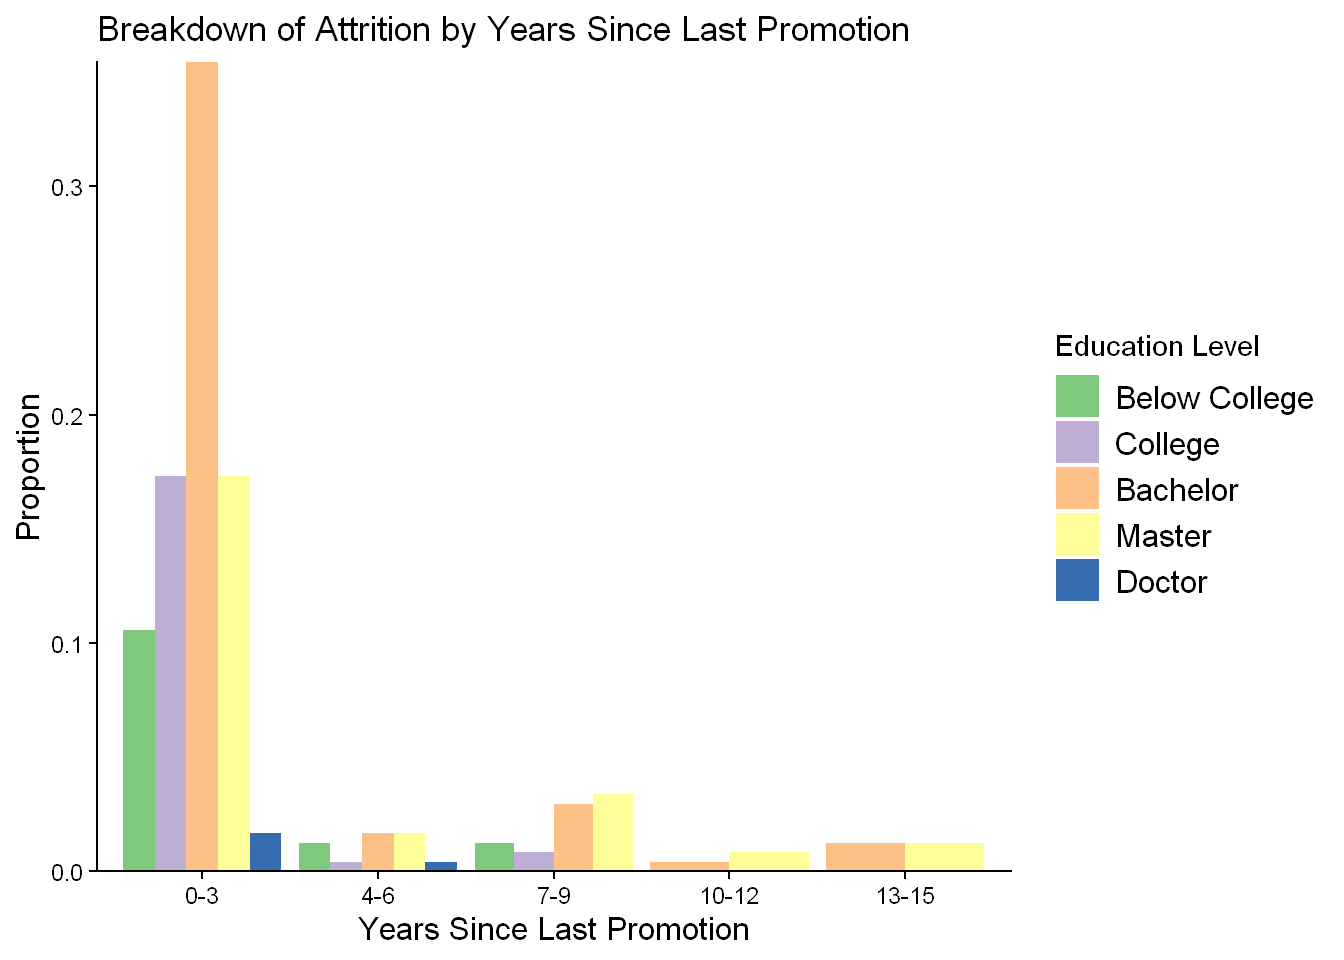
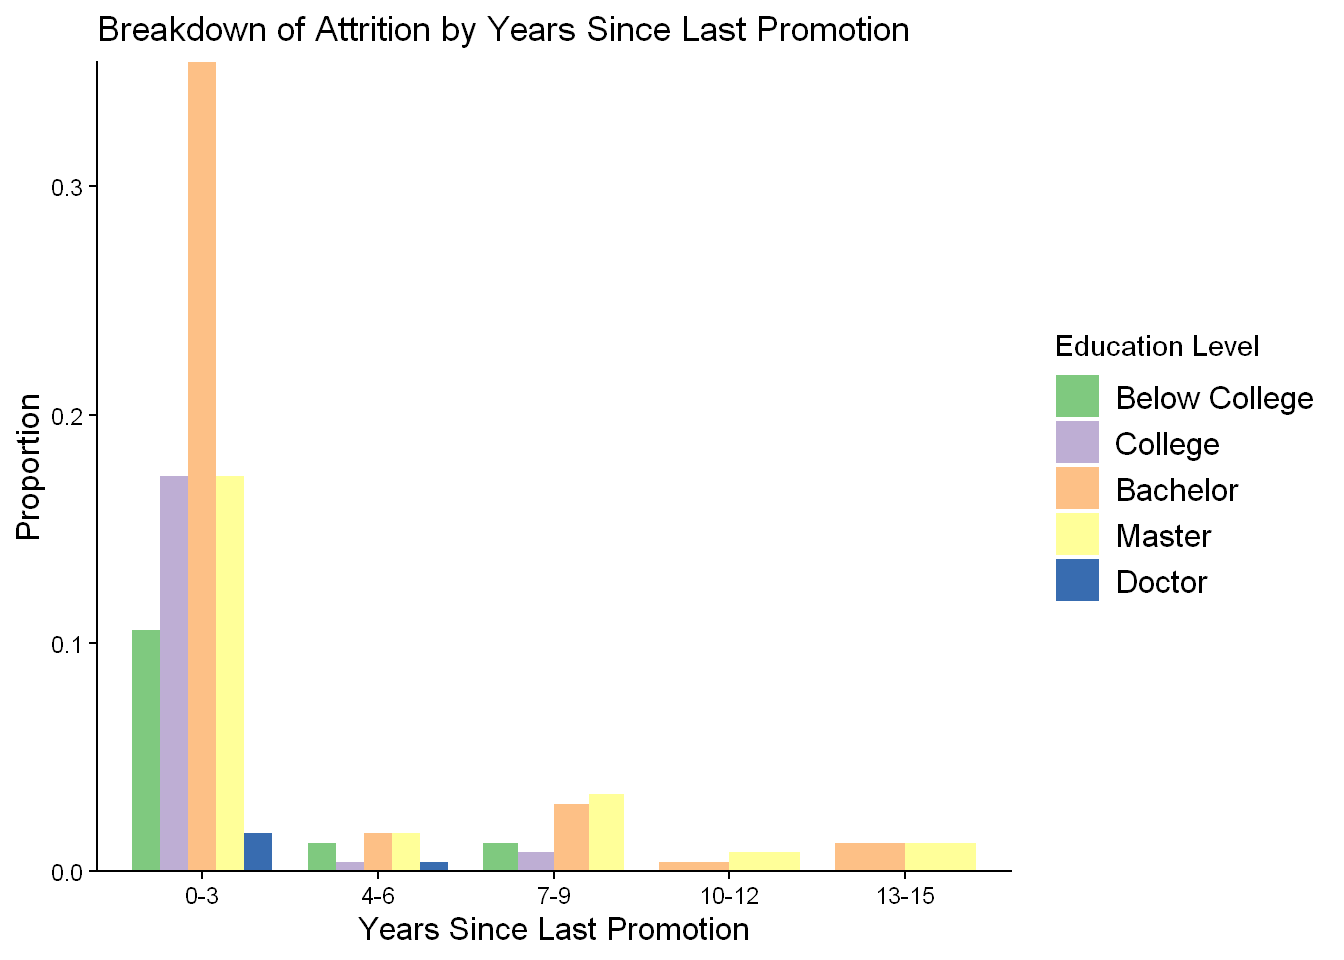
Added heatmap

diff --git a/Employee Attrition Exploration & Analyses.html b/Employee Attrition Exploration & Analyses.html
@@ -93,6 +93,7 @@ pre > code.sourceCode > span > a:first-child::before { text-decoration: underlin
   <li><a href="#cleaning" id="toc-cleaning" class="nav-link" data-scroll-target="#cleaning">Cleaning</a></li>
   <li><a href="#analyses" id="toc-analyses" class="nav-link" data-scroll-target="#analyses">Analyses</a>
   <ul class="collapse">
+  <li><a href="#engagement-insights" id="toc-engagement-insights" class="nav-link" data-scroll-target="#engagement-insights">Engagement Insights</a></li>
   <li><a href="#rename-education-insights-rename" id="toc-rename-education-insights-rename" class="nav-link" data-scroll-target="#rename-education-insights-rename">(RENAME) Education Insights (RENAME)</a></li>
   </ul></li>
   </ul>
@@ -219,28 +220,65 @@ $ YearsWithCurrManager     &lt;dbl&gt; 5, 7, 0, 0, 2, 6, 0, 0, 8, 7, 3, 8, 3, 2,
 <section id="analyses" class="level1">
 <h1>Analyses</h1>
 <div class="cell">
-<div class="code-copy-outer-scaffold"><div class="sourceCode cell-code" id="cb6"><pre class="sourceCode r code-with-copy"><code class="sourceCode r"><span id="cb6-1"><a href="#cb6-1" aria-hidden="true" tabindex="-1"></a><span class="co"># Created a new table highlighting employees who attrited, selecting some specific variables</span></span>
+<div class="code-copy-outer-scaffold"><div class="sourceCode cell-code" id="cb6"><pre class="sourceCode r code-with-copy"><code class="sourceCode r"><span id="cb6-1"><a href="#cb6-1" aria-hidden="true" tabindex="-1"></a><span class="co"># Created a new table highlighting employees who attritted, selecting some specific variables</span></span>
 <span id="cb6-2"><a href="#cb6-2" aria-hidden="true" tabindex="-1"></a>attrition_data <span class="ot">&lt;-</span> hr_data <span class="sc">%&gt;%</span> </span>
 <span id="cb6-3"><a href="#cb6-3" aria-hidden="true" tabindex="-1"></a>  <span class="fu">filter</span>(attrition <span class="sc">==</span> <span class="st">"Yes"</span>) <span class="sc">%&gt;%</span> </span>
 <span id="cb6-4"><a href="#cb6-4" aria-hidden="true" tabindex="-1"></a>  <span class="fu">select</span>(employee_number, distance_from_home, education, environment_satisfaction, </span>
 <span id="cb6-5"><a href="#cb6-5" aria-hidden="true" tabindex="-1"></a>         job_involvement, job_level, job_satisfaction, </span>
 <span id="cb6-6"><a href="#cb6-6" aria-hidden="true" tabindex="-1"></a>         num_companies_worked<span class="sc">:</span><span class="fu">last_col</span>())</span></code></pre></div><button title="Copy to Clipboard" class="code-copy-button"><i class="bi"></i></button></div>
 </div>
+<section id="engagement-insights" class="level2">
+<h2 class="anchored" data-anchor-id="engagement-insights">Engagement Insights</h2>
+<div class="cell">
+<div class="code-copy-outer-scaffold"><div class="sourceCode cell-code" id="cb7"><pre class="sourceCode r code-with-copy"><code class="sourceCode r"><span id="cb7-1"><a href="#cb7-1" aria-hidden="true" tabindex="-1"></a><span class="co"># Created a new table to display the attrition rates of each job involvement and satisfaction pair</span></span>
+<span id="cb7-2"><a href="#cb7-2" aria-hidden="true" tabindex="-1"></a>engagement_df <span class="ot">&lt;-</span> hr_data <span class="sc">%&gt;%</span> </span>
+<span id="cb7-3"><a href="#cb7-3" aria-hidden="true" tabindex="-1"></a>  <span class="fu">group_by</span>(job_involvement, job_satisfaction) <span class="sc">%&gt;%</span> </span>
+<span id="cb7-4"><a href="#cb7-4" aria-hidden="true" tabindex="-1"></a>  <span class="fu">summarize</span>(<span class="at">attrition_rate =</span> <span class="fu">round</span>((<span class="fu">mean</span>(attrition <span class="sc">==</span> <span class="st">"Yes"</span>)) <span class="sc">*</span> <span class="dv">100</span>, <span class="dv">2</span>))</span>
+<span id="cb7-5"><a href="#cb7-5" aria-hidden="true" tabindex="-1"></a></span>
+<span id="cb7-6"><a href="#cb7-6" aria-hidden="true" tabindex="-1"></a><span class="co"># Created theme for following plots</span></span>
+<span id="cb7-7"><a href="#cb7-7" aria-hidden="true" tabindex="-1"></a>graph_theme <span class="ot">&lt;-</span> <span class="fu">theme_classic</span>() <span class="sc">+</span></span>
+<span id="cb7-8"><a href="#cb7-8" aria-hidden="true" tabindex="-1"></a>  <span class="fu">theme</span>(</span>
+<span id="cb7-9"><a href="#cb7-9" aria-hidden="true" tabindex="-1"></a>        <span class="at">axis.title =</span> <span class="fu">element_text</span>(<span class="at">size =</span> <span class="dv">12</span>),</span>
+<span id="cb7-10"><a href="#cb7-10" aria-hidden="true" tabindex="-1"></a>        <span class="at">legend.text =</span> <span class="fu">element_text</span>(<span class="at">size =</span> <span class="dv">12</span>))</span>
+<span id="cb7-11"><a href="#cb7-11" aria-hidden="true" tabindex="-1"></a></span>
+<span id="cb7-12"><a href="#cb7-12" aria-hidden="true" tabindex="-1"></a><span class="co"># Created heatmap showcasing the relationship between the two variables</span></span>
+<span id="cb7-13"><a href="#cb7-13" aria-hidden="true" tabindex="-1"></a>engagement_heatmap <span class="ot">&lt;-</span> <span class="fu">ggplot</span>(engagement_df) <span class="sc">+</span> </span>
+<span id="cb7-14"><a href="#cb7-14" aria-hidden="true" tabindex="-1"></a>  <span class="fu">geom_tile</span>(<span class="fu">aes</span>(<span class="at">x =</span> job_involvement, </span>
+<span id="cb7-15"><a href="#cb7-15" aria-hidden="true" tabindex="-1"></a>                <span class="at">y =</span> job_satisfaction, </span>
+<span id="cb7-16"><a href="#cb7-16" aria-hidden="true" tabindex="-1"></a>                <span class="at">fill =</span> attrition_rate)) <span class="sc">+</span></span>
+<span id="cb7-17"><a href="#cb7-17" aria-hidden="true" tabindex="-1"></a>  <span class="fu">scale_fill_gradient</span>() <span class="sc">+</span></span>
+<span id="cb7-18"><a href="#cb7-18" aria-hidden="true" tabindex="-1"></a>  <span class="fu">labs</span>(<span class="at">x =</span> <span class="st">"Job Involvement"</span>, </span>
+<span id="cb7-19"><a href="#cb7-19" aria-hidden="true" tabindex="-1"></a>       <span class="at">y =</span> <span class="st">"Job Satisfaction"</span>,</span>
+<span id="cb7-20"><a href="#cb7-20" aria-hidden="true" tabindex="-1"></a>       <span class="at">title =</span> <span class="st">"Job Engagement Heatmap"</span>,</span>
+<span id="cb7-21"><a href="#cb7-21" aria-hidden="true" tabindex="-1"></a>       <span class="at">fill =</span> <span class="st">"Attrition Rate"</span>) <span class="sc">+</span></span>
+<span id="cb7-22"><a href="#cb7-22" aria-hidden="true" tabindex="-1"></a>  <span class="fu">theme_classic</span>() <span class="sc">+</span></span>
+<span id="cb7-23"><a href="#cb7-23" aria-hidden="true" tabindex="-1"></a>  graph_theme</span>
+<span id="cb7-24"><a href="#cb7-24" aria-hidden="true" tabindex="-1"></a></span>
+<span id="cb7-25"><a href="#cb7-25" aria-hidden="true" tabindex="-1"></a>engagement_heatmap</span></code></pre></div><button title="Copy to Clipboard" class="code-copy-button"><i class="bi"></i></button></div>
+<div class="cell-output-display">
+<div>
+<figure class="figure">
+<p><img src="Employee-Attrition-Exploration---Analyses_files/figure-html/Job%20Involvement%20and%20Satisfaction%20graph-1.png" class="img-fluid figure-img" width="672"></p>
+</figure>
+</div>
+</div>
+</div>
+</section>
 <section id="rename-education-insights-rename" class="level2">
 <h2 class="anchored" data-anchor-id="rename-education-insights-rename">(RENAME) Education Insights (RENAME)</h2>
 <div class="cell">
-<div class="code-copy-outer-scaffold"><div class="sourceCode cell-code" id="cb7"><pre class="sourceCode r code-with-copy"><code class="sourceCode r"><span id="cb7-1"><a href="#cb7-1" aria-hidden="true" tabindex="-1"></a><span class="co"># Created a new table to gain insight on employees based on their education level</span></span>
-<span id="cb7-2"><a href="#cb7-2" aria-hidden="true" tabindex="-1"></a>education_data <span class="ot">&lt;-</span> attrition_data <span class="sc">%&gt;%</span> </span>
-<span id="cb7-3"><a href="#cb7-3" aria-hidden="true" tabindex="-1"></a>  <span class="fu">select</span>(employee_number, education<span class="sc">:</span>job_satisfaction, percent_salary_hike, </span>
-<span id="cb7-4"><a href="#cb7-4" aria-hidden="true" tabindex="-1"></a>         total_working_years, years_at_company<span class="sc">:</span>years_since_last_promotion)</span>
-<span id="cb7-5"><a href="#cb7-5" aria-hidden="true" tabindex="-1"></a></span>
-<span id="cb7-6"><a href="#cb7-6" aria-hidden="true" tabindex="-1"></a><span class="co"># Finding which level of education has had the highest attrition rate</span></span>
-<span id="cb7-7"><a href="#cb7-7" aria-hidden="true" tabindex="-1"></a>ed_df <span class="ot">&lt;-</span> hr_data <span class="sc">%&gt;%</span> </span>
-<span id="cb7-8"><a href="#cb7-8" aria-hidden="true" tabindex="-1"></a><span class="fu">group_by</span>(education) <span class="sc">%&gt;%</span> </span>
-<span id="cb7-9"><a href="#cb7-9" aria-hidden="true" tabindex="-1"></a>  <span class="fu">summarize</span>(<span class="at">attrition_rate =</span> <span class="fu">round</span>((<span class="fu">mean</span>(attrition <span class="sc">==</span> <span class="st">"Yes"</span>)) <span class="sc">*</span> <span class="dv">100</span>, <span class="dv">2</span>))</span>
-<span id="cb7-10"><a href="#cb7-10" aria-hidden="true" tabindex="-1"></a></span>
-<span id="cb7-11"><a href="#cb7-11" aria-hidden="true" tabindex="-1"></a><span class="co"># Displaying the attrition rates of each education level</span></span>
-<span id="cb7-12"><a href="#cb7-12" aria-hidden="true" tabindex="-1"></a>knitr<span class="sc">::</span><span class="fu">kable</span>(ed_df)</span></code></pre></div><button title="Copy to Clipboard" class="code-copy-button"><i class="bi"></i></button></div>
+<div class="code-copy-outer-scaffold"><div class="sourceCode cell-code" id="cb8"><pre class="sourceCode r code-with-copy"><code class="sourceCode r"><span id="cb8-1"><a href="#cb8-1" aria-hidden="true" tabindex="-1"></a><span class="co"># Created a new table to gain insight on employees based on their education level</span></span>
+<span id="cb8-2"><a href="#cb8-2" aria-hidden="true" tabindex="-1"></a>education_data <span class="ot">&lt;-</span> attrition_data <span class="sc">%&gt;%</span> </span>
+<span id="cb8-3"><a href="#cb8-3" aria-hidden="true" tabindex="-1"></a>  <span class="fu">select</span>(employee_number, education<span class="sc">:</span>job_satisfaction, percent_salary_hike, </span>
+<span id="cb8-4"><a href="#cb8-4" aria-hidden="true" tabindex="-1"></a>         total_working_years, years_at_company<span class="sc">:</span>years_since_last_promotion)</span>
+<span id="cb8-5"><a href="#cb8-5" aria-hidden="true" tabindex="-1"></a></span>
+<span id="cb8-6"><a href="#cb8-6" aria-hidden="true" tabindex="-1"></a><span class="co"># Finding which level of education has had the highest attrition rate</span></span>
+<span id="cb8-7"><a href="#cb8-7" aria-hidden="true" tabindex="-1"></a>ed_df <span class="ot">&lt;-</span> hr_data <span class="sc">%&gt;%</span> </span>
+<span id="cb8-8"><a href="#cb8-8" aria-hidden="true" tabindex="-1"></a><span class="fu">group_by</span>(education) <span class="sc">%&gt;%</span> </span>
+<span id="cb8-9"><a href="#cb8-9" aria-hidden="true" tabindex="-1"></a>  <span class="fu">summarize</span>(<span class="at">attrition_rate =</span> <span class="fu">round</span>((<span class="fu">mean</span>(attrition <span class="sc">==</span> <span class="st">"Yes"</span>)) <span class="sc">*</span> <span class="dv">100</span>, <span class="dv">2</span>))</span>
+<span id="cb8-10"><a href="#cb8-10" aria-hidden="true" tabindex="-1"></a></span>
+<span id="cb8-11"><a href="#cb8-11" aria-hidden="true" tabindex="-1"></a><span class="co"># Displaying the attrition rates of each education level</span></span>
+<span id="cb8-12"><a href="#cb8-12" aria-hidden="true" tabindex="-1"></a>knitr<span class="sc">::</span><span class="fu">kable</span>(ed_df)</span></code></pre></div><button title="Copy to Clipboard" class="code-copy-button"><i class="bi"></i></button></div>
 <div class="cell-output-display">
 <table class="caption-top table table-sm table-striped small">
 <thead>
@@ -278,26 +316,23 @@ $ YearsWithCurrManager     &lt;dbl&gt; 5, 7, 0, 0, 2, 6, 0, 0, 8, 7, 3, 8, 3, 2,
 <section id="graph-of-breakdown-by-years-since-last-promotion" class="level4">
 <h4 class="anchored" data-anchor-id="graph-of-breakdown-by-years-since-last-promotion">Graph of Breakdown by Years Since Last Promotion</h4>
 <div class="cell">
-<div class="code-copy-outer-scaffold"><div class="sourceCode cell-code" id="cb8"><pre class="sourceCode r code-with-copy"><code class="sourceCode r"><span id="cb8-1"><a href="#cb8-1" aria-hidden="true" tabindex="-1"></a>promo_graph_count <span class="ot">&lt;-</span> education_data <span class="sc">%&gt;%</span> </span>
-<span id="cb8-2"><a href="#cb8-2" aria-hidden="true" tabindex="-1"></a>  <span class="fu">mutate</span>(<span class="at">years_bucket =</span> <span class="fu">cut</span>(years_since_last_promotion,</span>
-<span id="cb8-3"><a href="#cb8-3" aria-hidden="true" tabindex="-1"></a>                            <span class="at">breaks =</span> <span class="fu">c</span>(<span class="dv">0</span>, <span class="dv">3</span>, <span class="dv">6</span>, <span class="dv">9</span>, <span class="dv">12</span>, <span class="dv">15</span>),</span>
-<span id="cb8-4"><a href="#cb8-4" aria-hidden="true" tabindex="-1"></a>                            <span class="at">labels =</span> <span class="fu">c</span>(<span class="st">"0-3"</span>, <span class="st">"4-6"</span>, <span class="st">"7-9"</span>, <span class="st">"10-12"</span>, <span class="st">"13-15"</span>),</span>
-<span id="cb8-5"><a href="#cb8-5" aria-hidden="true" tabindex="-1"></a>                            <span class="at">include.lowest =</span> <span class="cn">TRUE</span>)) <span class="sc">%&gt;%</span></span>
-<span id="cb8-6"><a href="#cb8-6" aria-hidden="true" tabindex="-1"></a>  <span class="fu">ggplot</span>(<span class="fu">aes</span>(years_bucket, </span>
-<span id="cb8-7"><a href="#cb8-7" aria-hidden="true" tabindex="-1"></a>             <span class="at">fill =</span> education)) <span class="sc">+</span> </span>
-<span id="cb8-8"><a href="#cb8-8" aria-hidden="true" tabindex="-1"></a>  <span class="fu">scale_x_discrete</span>(<span class="st">"Years Since Last Promotion"</span>) <span class="sc">+</span></span>
-<span id="cb8-9"><a href="#cb8-9" aria-hidden="true" tabindex="-1"></a>  <span class="fu">scale_y_continuous</span>(<span class="st">"Count"</span>, <span class="at">expand =</span> <span class="fu">c</span>(<span class="dv">0</span>,<span class="dv">0</span>)) <span class="sc">+</span></span>
-<span id="cb8-10"><a href="#cb8-10" aria-hidden="true" tabindex="-1"></a>  <span class="fu">geom_bar</span>(<span class="at">position =</span> <span class="st">"dodge"</span>) <span class="sc">+</span></span>
-<span id="cb8-11"><a href="#cb8-11" aria-hidden="true" tabindex="-1"></a>  <span class="fu">labs</span>(<span class="at">title =</span> <span class="st">"Breakdown of Attrition by Years Since Last Promotion"</span>, </span>
-<span id="cb8-12"><a href="#cb8-12" aria-hidden="true" tabindex="-1"></a>       <span class="at">fill =</span> <span class="st">"Education Level"</span>) <span class="sc">+</span></span>
-<span id="cb8-13"><a href="#cb8-13" aria-hidden="true" tabindex="-1"></a>  <span class="fu">theme_classic</span>() <span class="sc">+</span></span>
-<span id="cb8-14"><a href="#cb8-14" aria-hidden="true" tabindex="-1"></a>  <span class="fu">theme</span>(</span>
-<span id="cb8-15"><a href="#cb8-15" aria-hidden="true" tabindex="-1"></a>        <span class="at">axis.title =</span> <span class="fu">element_text</span>(<span class="at">size =</span> <span class="dv">12</span>),</span>
-<span id="cb8-16"><a href="#cb8-16" aria-hidden="true" tabindex="-1"></a>        <span class="at">legend.text =</span> <span class="fu">element_text</span>(<span class="at">size =</span> <span class="dv">12</span>)) <span class="sc">+</span> </span>
-<span id="cb8-17"><a href="#cb8-17" aria-hidden="true" tabindex="-1"></a>  <span class="fu">scale_fill_brewer</span>(<span class="at">palette =</span> <span class="st">"Accent"</span>)</span>
-<span id="cb8-18"><a href="#cb8-18" aria-hidden="true" tabindex="-1"></a>      </span>
-<span id="cb8-19"><a href="#cb8-19" aria-hidden="true" tabindex="-1"></a></span>
-<span id="cb8-20"><a href="#cb8-20" aria-hidden="true" tabindex="-1"></a>promo_graph_count</span></code></pre></div><button title="Copy to Clipboard" class="code-copy-button"><i class="bi"></i></button></div>
+<div class="code-copy-outer-scaffold"><div class="sourceCode cell-code" id="cb9"><pre class="sourceCode r code-with-copy"><code class="sourceCode r"><span id="cb9-1"><a href="#cb9-1" aria-hidden="true" tabindex="-1"></a><span class="co"># Created graph to show the count of employees who attritted based on years since their last promotion</span></span>
+<span id="cb9-2"><a href="#cb9-2" aria-hidden="true" tabindex="-1"></a>promo_graph_count <span class="ot">&lt;-</span> education_data <span class="sc">%&gt;%</span> </span>
+<span id="cb9-3"><a href="#cb9-3" aria-hidden="true" tabindex="-1"></a>  <span class="fu">mutate</span>(<span class="at">years_bucket =</span> <span class="fu">cut</span>(years_since_last_promotion,</span>
+<span id="cb9-4"><a href="#cb9-4" aria-hidden="true" tabindex="-1"></a>                            <span class="at">breaks =</span> <span class="fu">c</span>(<span class="dv">0</span>, <span class="dv">3</span>, <span class="dv">6</span>, <span class="dv">9</span>, <span class="dv">12</span>, <span class="dv">15</span>),</span>
+<span id="cb9-5"><a href="#cb9-5" aria-hidden="true" tabindex="-1"></a>                            <span class="at">labels =</span> <span class="fu">c</span>(<span class="st">"0-3"</span>, <span class="st">"4-6"</span>, <span class="st">"7-9"</span>, <span class="st">"10-12"</span>, <span class="st">"13-15"</span>),</span>
+<span id="cb9-6"><a href="#cb9-6" aria-hidden="true" tabindex="-1"></a>                            <span class="at">include.lowest =</span> <span class="cn">TRUE</span>)) <span class="sc">%&gt;%</span></span>
+<span id="cb9-7"><a href="#cb9-7" aria-hidden="true" tabindex="-1"></a>  <span class="fu">ggplot</span>(<span class="fu">aes</span>(years_bucket, </span>
+<span id="cb9-8"><a href="#cb9-8" aria-hidden="true" tabindex="-1"></a>             <span class="at">fill =</span> education)) <span class="sc">+</span> </span>
+<span id="cb9-9"><a href="#cb9-9" aria-hidden="true" tabindex="-1"></a>  <span class="fu">scale_x_discrete</span>(<span class="st">"Years Since Last Promotion"</span>) <span class="sc">+</span></span>
+<span id="cb9-10"><a href="#cb9-10" aria-hidden="true" tabindex="-1"></a>  <span class="fu">scale_y_continuous</span>(<span class="st">"Count"</span>, <span class="at">expand =</span> <span class="fu">c</span>(<span class="dv">0</span>,<span class="dv">0</span>)) <span class="sc">+</span></span>
+<span id="cb9-11"><a href="#cb9-11" aria-hidden="true" tabindex="-1"></a>  <span class="fu">geom_bar</span>(<span class="at">position =</span> <span class="st">"dodge"</span>, <span class="at">width =</span> .<span class="dv">8</span>) <span class="sc">+</span></span>
+<span id="cb9-12"><a href="#cb9-12" aria-hidden="true" tabindex="-1"></a>  <span class="fu">labs</span>(<span class="at">title =</span> <span class="st">"Breakdown of Attrition by Years Since Last Promotion"</span>, </span>
+<span id="cb9-13"><a href="#cb9-13" aria-hidden="true" tabindex="-1"></a>       <span class="at">fill =</span> <span class="st">"Education Level"</span>) <span class="sc">+</span></span>
+<span id="cb9-14"><a href="#cb9-14" aria-hidden="true" tabindex="-1"></a>  graph_theme <span class="sc">+</span></span>
+<span id="cb9-15"><a href="#cb9-15" aria-hidden="true" tabindex="-1"></a>  <span class="fu">scale_fill_brewer</span>(<span class="at">palette =</span> <span class="st">"Accent"</span>)</span>
+<span id="cb9-16"><a href="#cb9-16" aria-hidden="true" tabindex="-1"></a>      </span>
+<span id="cb9-17"><a href="#cb9-17" aria-hidden="true" tabindex="-1"></a>promo_graph_count</span></code></pre></div><button title="Copy to Clipboard" class="code-copy-button"><i class="bi"></i></button></div>
 <div class="cell-output-display">
 <div>
 <figure class="figure">
@@ -312,14 +347,16 @@ $ YearsWithCurrManager     &lt;dbl&gt; 5, 7, 0, 0, 2, 6, 0, 0, 8, 7, 3, 8, 3, 2,
 <div class="cell">
 <details class="code-fold">
 <summary>Code</summary>
-<div class="code-copy-outer-scaffold"><div class="sourceCode cell-code" id="cb9"><pre class="sourceCode r code-with-copy"><code class="sourceCode r"><span id="cb9-1"><a href="#cb9-1" aria-hidden="true" tabindex="-1"></a>promo_prop_df <span class="ot">&lt;-</span> education_data <span class="sc">%&gt;%</span> </span>
-<span id="cb9-2"><a href="#cb9-2" aria-hidden="true" tabindex="-1"></a>  <span class="fu">mutate</span>(<span class="at">years_bucket =</span> <span class="fu">cut</span>(years_since_last_promotion,</span>
-<span id="cb9-3"><a href="#cb9-3" aria-hidden="true" tabindex="-1"></a>                            <span class="at">breaks =</span> <span class="fu">c</span>(<span class="dv">0</span>, <span class="dv">3</span>, <span class="dv">6</span>, <span class="dv">9</span>, <span class="dv">12</span>, <span class="dv">15</span>),</span>
-<span id="cb9-4"><a href="#cb9-4" aria-hidden="true" tabindex="-1"></a>                            <span class="at">labels =</span> <span class="fu">c</span>(<span class="st">"0-3"</span>, <span class="st">"4-6"</span>, <span class="st">"7-9"</span>, <span class="st">"10-12"</span>, <span class="st">"13-15"</span>),</span>
-<span id="cb9-5"><a href="#cb9-5" aria-hidden="true" tabindex="-1"></a>                            <span class="at">include.lowest =</span> <span class="cn">TRUE</span>)) <span class="sc">%&gt;%</span></span>
-<span id="cb9-6"><a href="#cb9-6" aria-hidden="true" tabindex="-1"></a>  <span class="fu">count</span>(years_bucket, education) </span>
-<span id="cb9-7"><a href="#cb9-7" aria-hidden="true" tabindex="-1"></a></span>
-<span id="cb9-8"><a href="#cb9-8" aria-hidden="true" tabindex="-1"></a>knitr<span class="sc">::</span><span class="fu">kable</span>(promo_prop_df)</span></code></pre></div><button title="Copy to Clipboard" class="code-copy-button"><i class="bi"></i></button></div>
+<div class="code-copy-outer-scaffold"><div class="sourceCode cell-code" id="cb10"><pre class="sourceCode r code-with-copy"><code class="sourceCode r"><span id="cb10-1"><a href="#cb10-1" aria-hidden="true" tabindex="-1"></a><span class="co"># Created table and graph to show the proportion of employees who attritted based on years since their last promotion</span></span>
+<span id="cb10-2"><a href="#cb10-2" aria-hidden="true" tabindex="-1"></a>promo_prop_df <span class="ot">&lt;-</span> education_data <span class="sc">%&gt;%</span> </span>
+<span id="cb10-3"><a href="#cb10-3" aria-hidden="true" tabindex="-1"></a>  <span class="fu">mutate</span>(<span class="at">years_bucket =</span> <span class="fu">cut</span>(years_since_last_promotion,</span>
+<span id="cb10-4"><a href="#cb10-4" aria-hidden="true" tabindex="-1"></a>                            <span class="at">breaks =</span> <span class="fu">c</span>(<span class="dv">0</span>, <span class="dv">3</span>, <span class="dv">6</span>, <span class="dv">9</span>, <span class="dv">12</span>, <span class="dv">15</span>),</span>
+<span id="cb10-5"><a href="#cb10-5" aria-hidden="true" tabindex="-1"></a>                            <span class="at">labels =</span> <span class="fu">c</span>(<span class="st">"0-3"</span>, <span class="st">"4-6"</span>, <span class="st">"7-9"</span>, <span class="st">"10-12"</span>, <span class="st">"13-15"</span>),</span>
+<span id="cb10-6"><a href="#cb10-6" aria-hidden="true" tabindex="-1"></a>                            <span class="at">include.lowest =</span> <span class="cn">TRUE</span>)) <span class="sc">%&gt;%</span></span>
+<span id="cb10-7"><a href="#cb10-7" aria-hidden="true" tabindex="-1"></a>  <span class="fu">count</span>(years_bucket, education) </span>
+<span id="cb10-8"><a href="#cb10-8" aria-hidden="true" tabindex="-1"></a></span>
+<span id="cb10-9"><a href="#cb10-9" aria-hidden="true" tabindex="-1"></a><span class="co"># Table to display the breakdown into each bucket</span></span>
+<span id="cb10-10"><a href="#cb10-10" aria-hidden="true" tabindex="-1"></a>knitr<span class="sc">::</span><span class="fu">kable</span>(promo_prop_df)</span></code></pre></div><button title="Copy to Clipboard" class="code-copy-button"><i class="bi"></i></button></div>
 </details>
 <div class="cell-output-display">
 <table class="caption-top table table-sm table-striped small">
@@ -426,24 +463,20 @@ $ YearsWithCurrManager     &lt;dbl&gt; 5, 7, 0, 0, 2, 6, 0, 0, 8, 7, 3, 8, 3, 2,
 </div>
 <details class="code-fold">
 <summary>Code</summary>
-<div class="code-copy-outer-scaffold"><div class="sourceCode cell-code" id="cb10"><pre class="sourceCode r code-with-copy"><code class="sourceCode r"><span id="cb10-1"><a href="#cb10-1" aria-hidden="true" tabindex="-1"></a>promo_graph_prop <span class="ot">&lt;-</span> promo_prop_df <span class="sc">%&gt;%</span> </span>
-<span id="cb10-2"><a href="#cb10-2" aria-hidden="true" tabindex="-1"></a>  <span class="fu">mutate</span>(<span class="at">prop =</span> n <span class="sc">/</span> <span class="fu">sum</span>(n)) <span class="sc">%&gt;%</span> </span>
-<span id="cb10-3"><a href="#cb10-3" aria-hidden="true" tabindex="-1"></a>  <span class="fu">ggplot</span>(<span class="fu">aes</span>(years_bucket, </span>
-<span id="cb10-4"><a href="#cb10-4" aria-hidden="true" tabindex="-1"></a>             prop,</span>
-<span id="cb10-5"><a href="#cb10-5" aria-hidden="true" tabindex="-1"></a>             <span class="at">fill =</span> education)) <span class="sc">+</span> </span>
-<span id="cb10-6"><a href="#cb10-6" aria-hidden="true" tabindex="-1"></a>  <span class="fu">scale_x_discrete</span>(<span class="st">"Years Since Last Promotion"</span>) <span class="sc">+</span></span>
-<span id="cb10-7"><a href="#cb10-7" aria-hidden="true" tabindex="-1"></a>  <span class="fu">scale_y_continuous</span>(<span class="st">"Proportion"</span>, <span class="at">expand =</span> <span class="fu">c</span>(<span class="dv">0</span>,<span class="dv">0</span>)) <span class="sc">+</span></span>
-<span id="cb10-8"><a href="#cb10-8" aria-hidden="true" tabindex="-1"></a>  <span class="fu">geom_col</span>(<span class="at">position =</span> <span class="st">"dodge"</span>) <span class="sc">+</span></span>
-<span id="cb10-9"><a href="#cb10-9" aria-hidden="true" tabindex="-1"></a>  <span class="fu">labs</span>(<span class="at">title =</span> <span class="st">"Breakdown of Attrition by Years Since Last Promotion"</span>, </span>
-<span id="cb10-10"><a href="#cb10-10" aria-hidden="true" tabindex="-1"></a>       <span class="at">fill =</span> <span class="st">"Education Level"</span>) <span class="sc">+</span></span>
-<span id="cb10-11"><a href="#cb10-11" aria-hidden="true" tabindex="-1"></a>  <span class="fu">theme_classic</span>() <span class="sc">+</span></span>
-<span id="cb10-12"><a href="#cb10-12" aria-hidden="true" tabindex="-1"></a>  <span class="fu">theme</span>(</span>
-<span id="cb10-13"><a href="#cb10-13" aria-hidden="true" tabindex="-1"></a>        <span class="at">axis.title =</span> <span class="fu">element_text</span>(<span class="at">size =</span> <span class="dv">12</span>),</span>
-<span id="cb10-14"><a href="#cb10-14" aria-hidden="true" tabindex="-1"></a>        <span class="at">legend.text =</span> <span class="fu">element_text</span>(<span class="at">size =</span> <span class="dv">12</span>)) <span class="sc">+</span> </span>
-<span id="cb10-15"><a href="#cb10-15" aria-hidden="true" tabindex="-1"></a>  <span class="fu">scale_fill_brewer</span>(<span class="at">palette =</span> <span class="st">"Accent"</span>)</span>
-<span id="cb10-16"><a href="#cb10-16" aria-hidden="true" tabindex="-1"></a>      </span>
-<span id="cb10-17"><a href="#cb10-17" aria-hidden="true" tabindex="-1"></a></span>
-<span id="cb10-18"><a href="#cb10-18" aria-hidden="true" tabindex="-1"></a>promo_graph_prop</span></code></pre></div><button title="Copy to Clipboard" class="code-copy-button"><i class="bi"></i></button></div>
+<div class="code-copy-outer-scaffold"><div class="sourceCode cell-code" id="cb11"><pre class="sourceCode r code-with-copy"><code class="sourceCode r"><span id="cb11-1"><a href="#cb11-1" aria-hidden="true" tabindex="-1"></a>promo_graph_prop <span class="ot">&lt;-</span> promo_prop_df <span class="sc">%&gt;%</span> </span>
+<span id="cb11-2"><a href="#cb11-2" aria-hidden="true" tabindex="-1"></a>  <span class="fu">mutate</span>(<span class="at">prop =</span> n <span class="sc">/</span> <span class="fu">sum</span>(n)) <span class="sc">%&gt;%</span> </span>
+<span id="cb11-3"><a href="#cb11-3" aria-hidden="true" tabindex="-1"></a>  <span class="fu">ggplot</span>(<span class="fu">aes</span>(years_bucket, </span>
+<span id="cb11-4"><a href="#cb11-4" aria-hidden="true" tabindex="-1"></a>             prop,</span>
+<span id="cb11-5"><a href="#cb11-5" aria-hidden="true" tabindex="-1"></a>             <span class="at">fill =</span> education)) <span class="sc">+</span> </span>
+<span id="cb11-6"><a href="#cb11-6" aria-hidden="true" tabindex="-1"></a>  <span class="fu">scale_x_discrete</span>(<span class="st">"Years Since Last Promotion"</span>) <span class="sc">+</span></span>
+<span id="cb11-7"><a href="#cb11-7" aria-hidden="true" tabindex="-1"></a>  <span class="fu">scale_y_continuous</span>(<span class="st">"Proportion"</span>, <span class="at">expand =</span> <span class="fu">c</span>(<span class="dv">0</span>,<span class="dv">0</span>)) <span class="sc">+</span></span>
+<span id="cb11-8"><a href="#cb11-8" aria-hidden="true" tabindex="-1"></a>  <span class="fu">geom_col</span>(<span class="at">position =</span> <span class="st">"dodge"</span>, <span class="at">width =</span> .<span class="dv">8</span>) <span class="sc">+</span></span>
+<span id="cb11-9"><a href="#cb11-9" aria-hidden="true" tabindex="-1"></a>  <span class="fu">labs</span>(<span class="at">title =</span> <span class="st">"Breakdown of Attrition by Years Since Last Promotion"</span>, </span>
+<span id="cb11-10"><a href="#cb11-10" aria-hidden="true" tabindex="-1"></a>       <span class="at">fill =</span> <span class="st">"Education Level"</span>) <span class="sc">+</span></span>
+<span id="cb11-11"><a href="#cb11-11" aria-hidden="true" tabindex="-1"></a>  graph_theme <span class="sc">+</span> </span>
+<span id="cb11-12"><a href="#cb11-12" aria-hidden="true" tabindex="-1"></a>  <span class="fu">scale_fill_brewer</span>(<span class="at">palette =</span> <span class="st">"Accent"</span>)</span>
+<span id="cb11-13"><a href="#cb11-13" aria-hidden="true" tabindex="-1"></a>      </span>
+<span id="cb11-14"><a href="#cb11-14" aria-hidden="true" tabindex="-1"></a>promo_graph_prop</span></code></pre></div><button title="Copy to Clipboard" class="code-copy-button"><i class="bi"></i></button></div>
 </details>
 <div class="cell-output-display">
 <div>